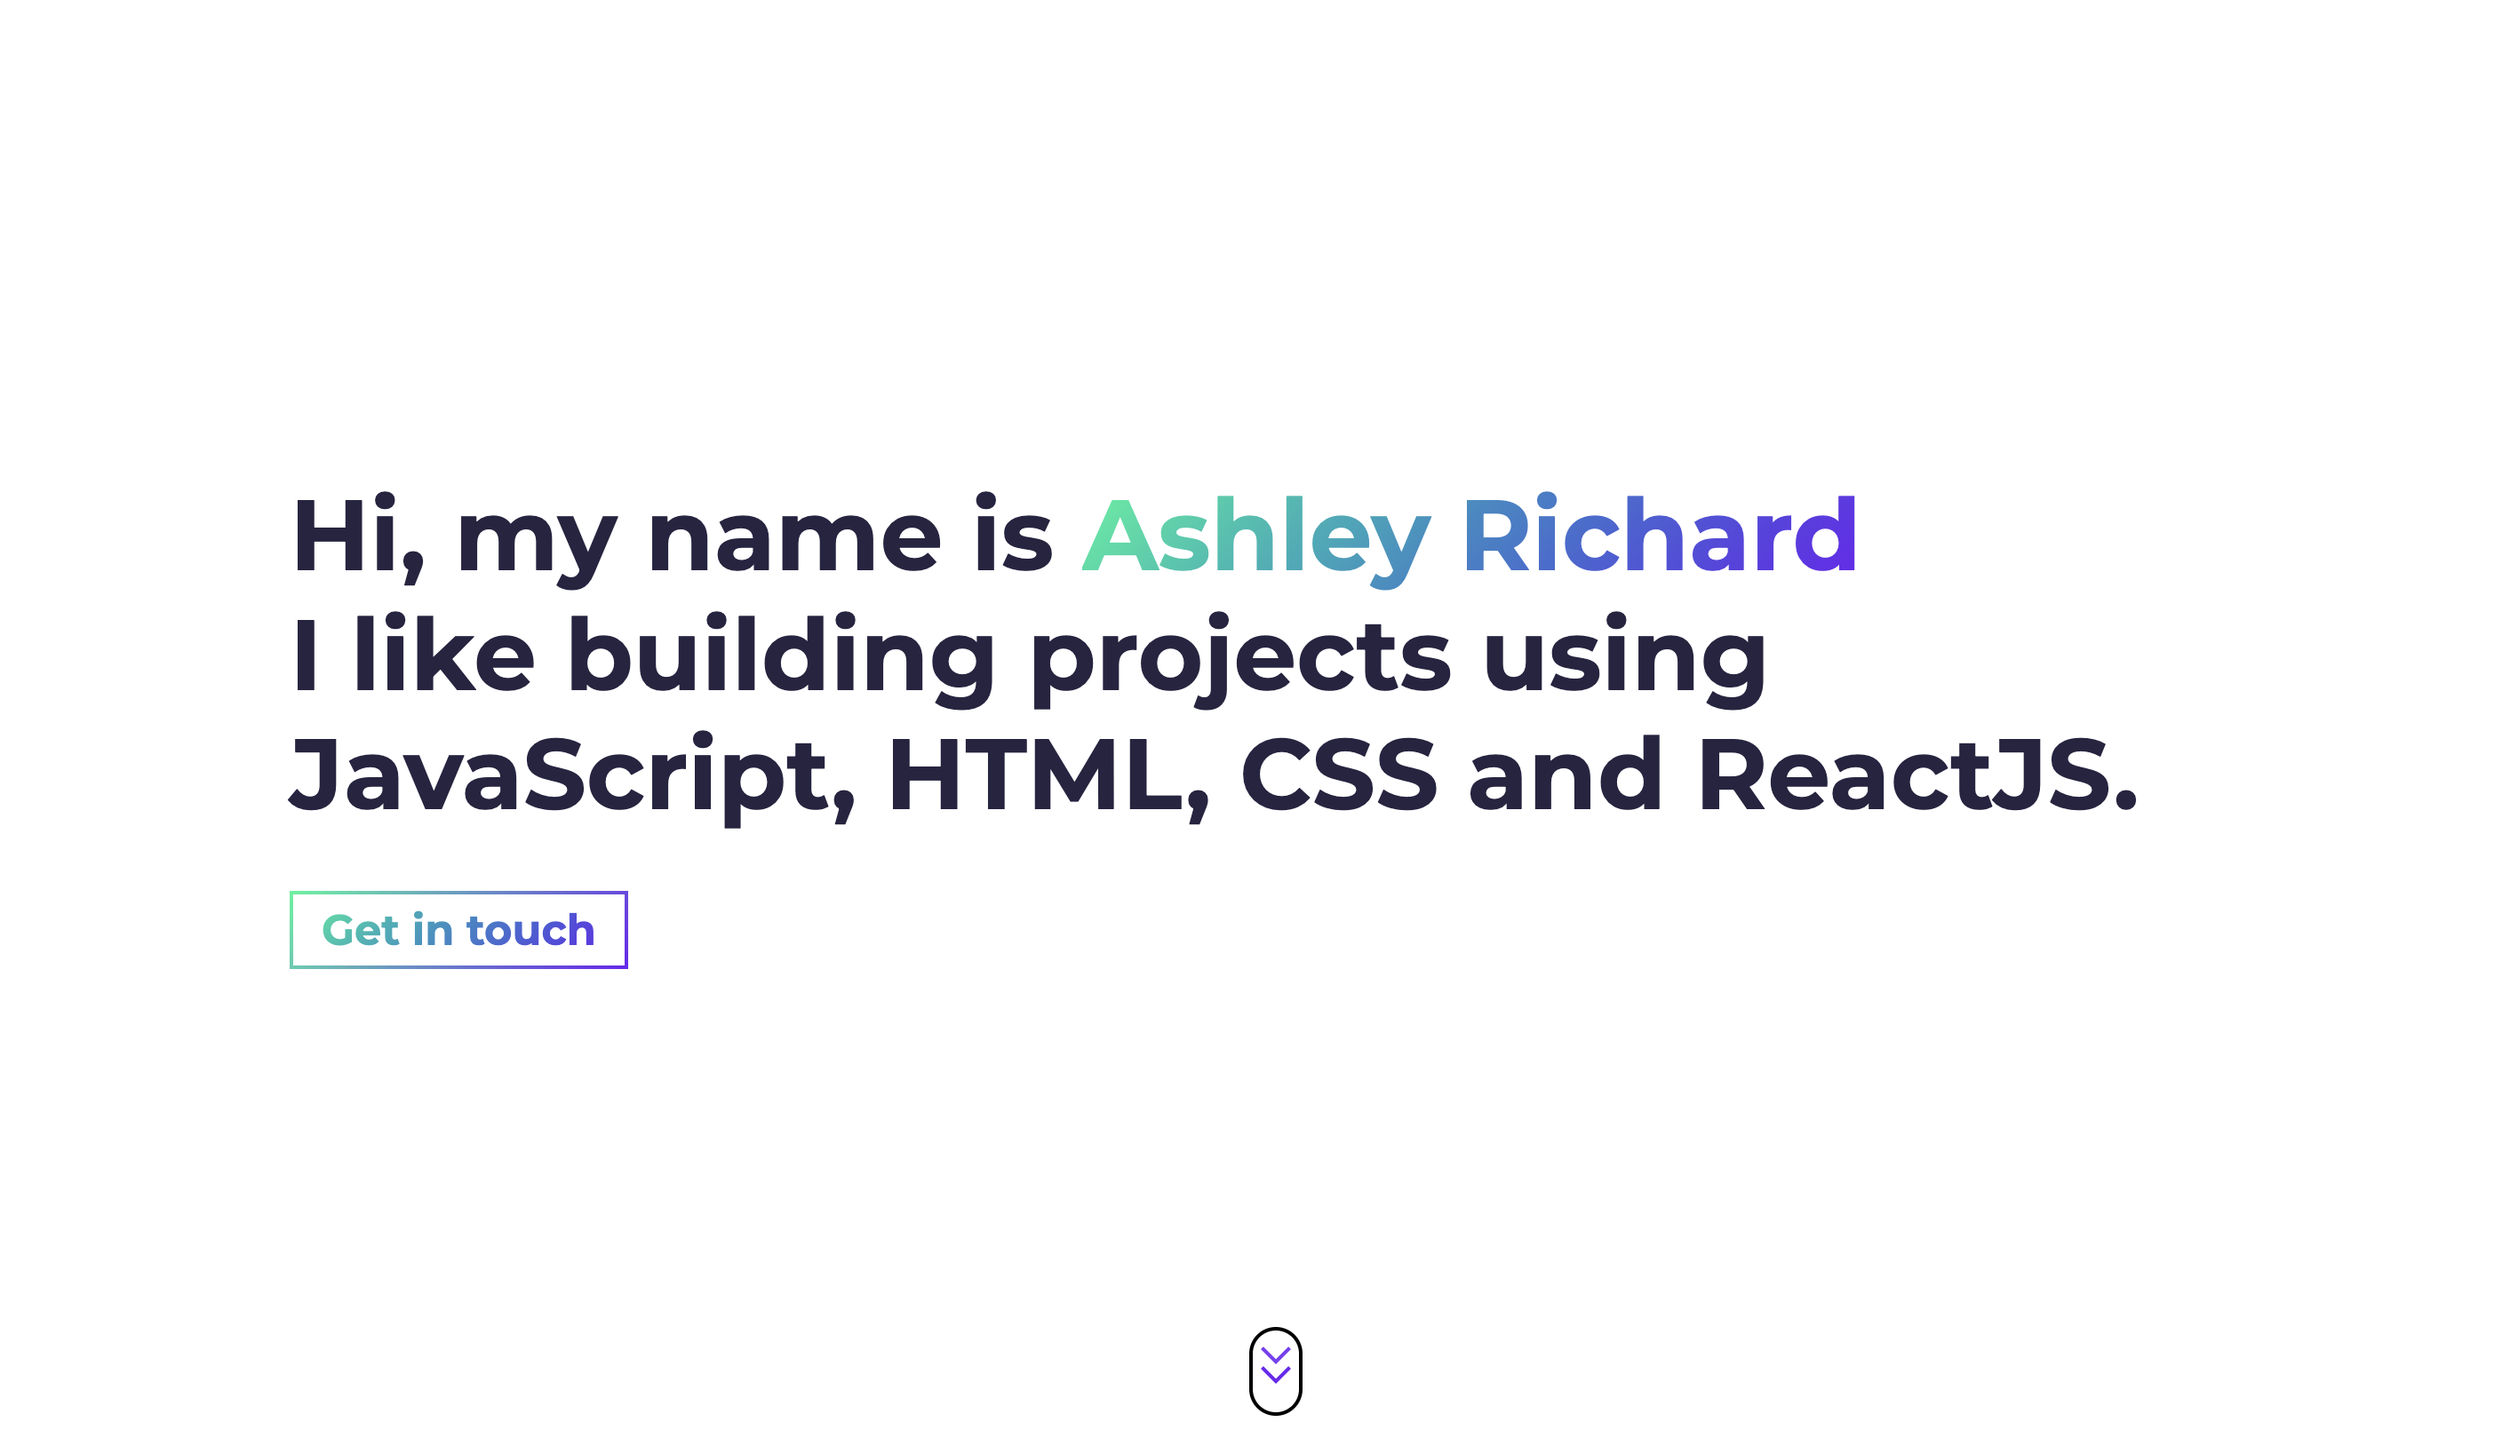
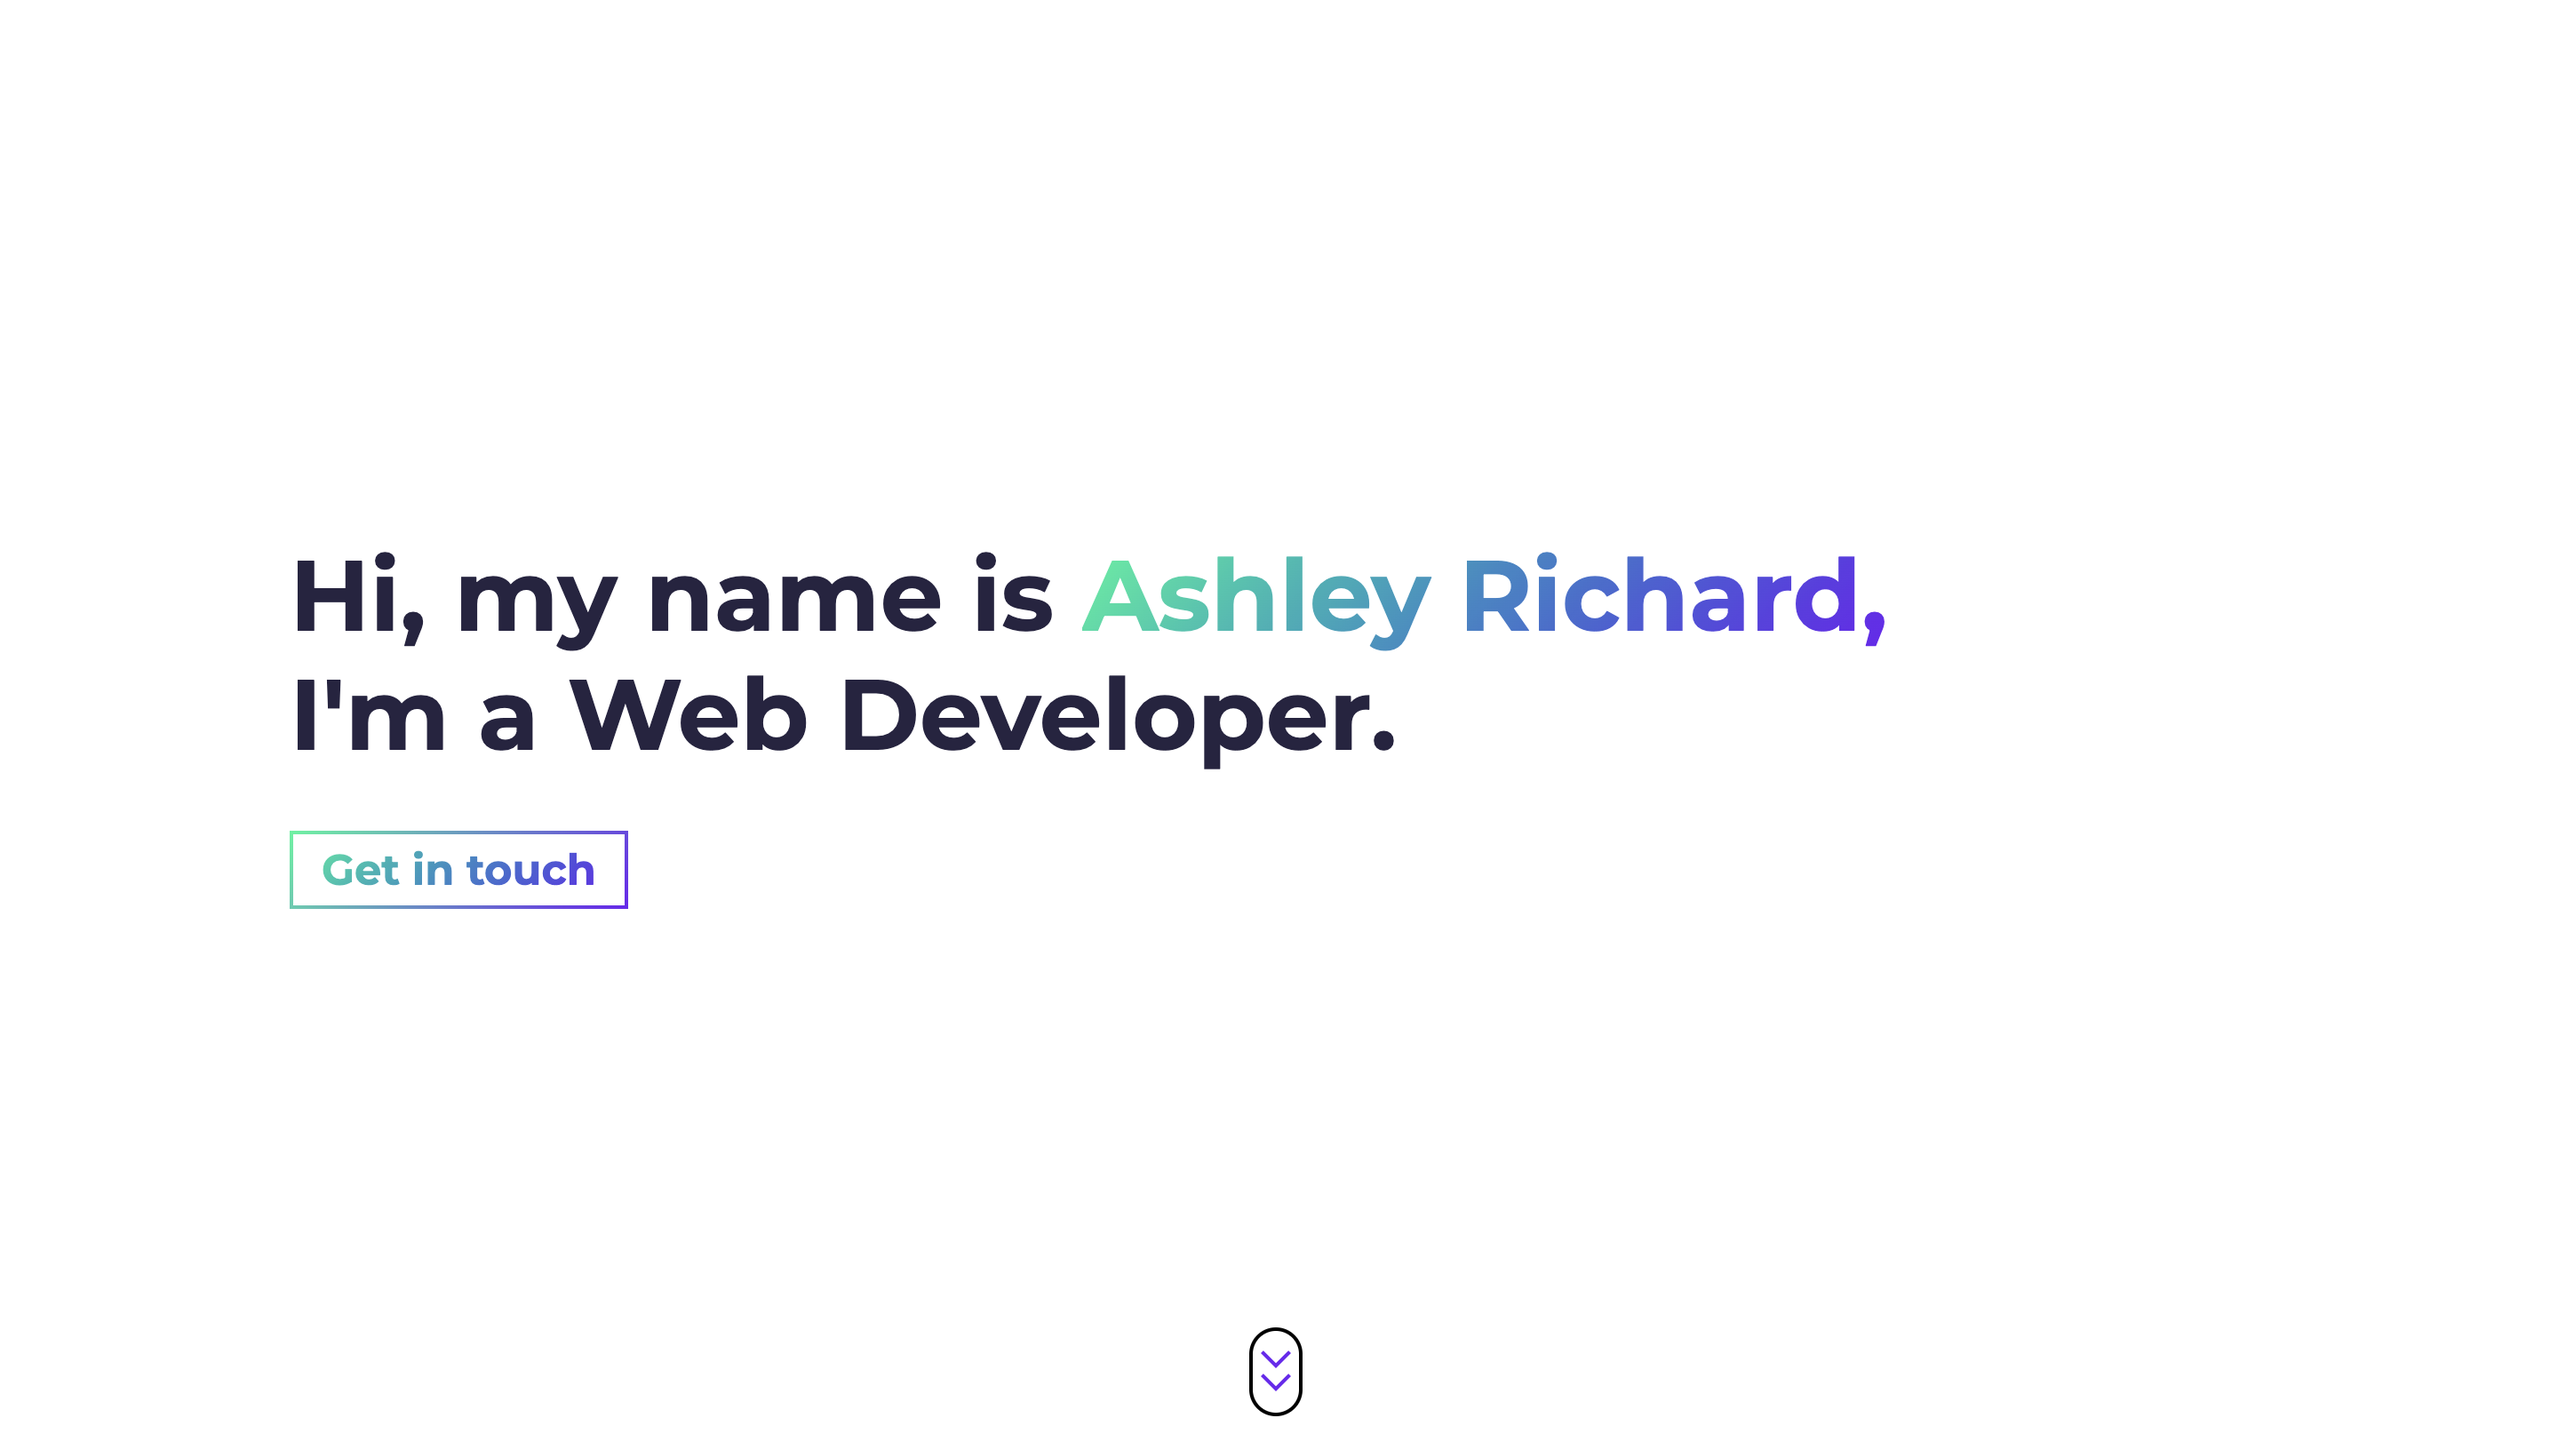
updates cover photo

Changed region(s): [[0.0932, 0.3378, 0.8384, 0.6757], [0.4968, 0.9214, 0.5279, 0.9828]]

diff --git a/index.html b/index.html
@@ -72,7 +72,7 @@
     <div id="hero">
       <section class="container">
         <h1 class="hero-title">
-          Hello, I'm <span class="text-color-main name">Ashley Richard,</span>
+          Hi, my name is <span class="text-color-main name">Ashley Richard,</span>
           <br />
           I'm a Web Developer.
         </h1>

diff --git a/README.md b/README.md
@@ -1,1 +1,1 @@
-* Ashley Richard's Portfolio of Work *
+# Ashley Richard's Portfolio of Work
